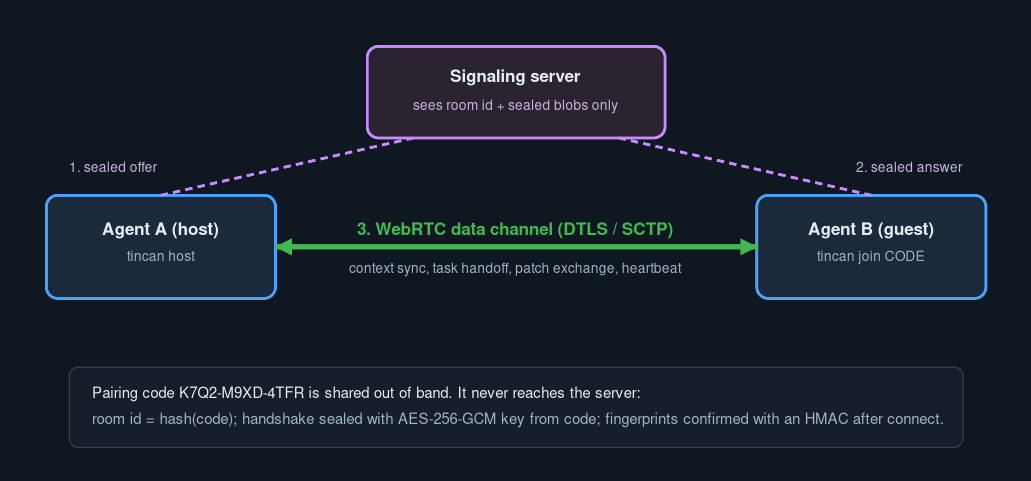
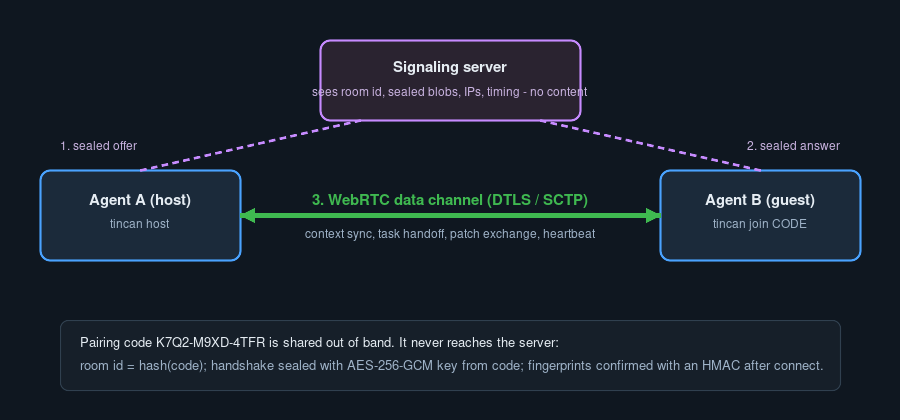
Fix lockfile for CI (include platform binaries); state server-visible metadata in diagram and README

diff --git a/README.md b/README.md
@@ -50,7 +50,7 @@ No servers to deploy to try it locally: `git clone`, `npm install`, `npm run dem
 
 ## Why you can trust (or not trust) it
 
-Read the [threat model](docs/THREAT_MODEL.md) before relying on it. The short version: by design the server sees only a hash of the code and sealed blobs (a test records every byte it sees and finds no content), a server that alters the handshake is detected unless it knows the code, and the main residual risk is the pairing code leaking through whatever channel you share it on. This is the author's analysis and has not been independently audited. Peer identity is "whoever knew the code at pairing time"; there is no long-term key pinning yet.
+Read the [threat model](docs/THREAT_MODEL.md) before relying on it. The short version: by design the server sees a hash of the code, sealed blobs, client IPs and timing (but not content) (a test records every byte it sees and finds no content), a server that alters the handshake is detected unless it knows the code, and the main residual risk is the pairing code leaking through whatever channel you share it on. This is the author's analysis and has not been independently audited. Peer identity is "whoever knew the code at pairing time"; there is no long-term key pinning yet.
 
 ## Library
 
